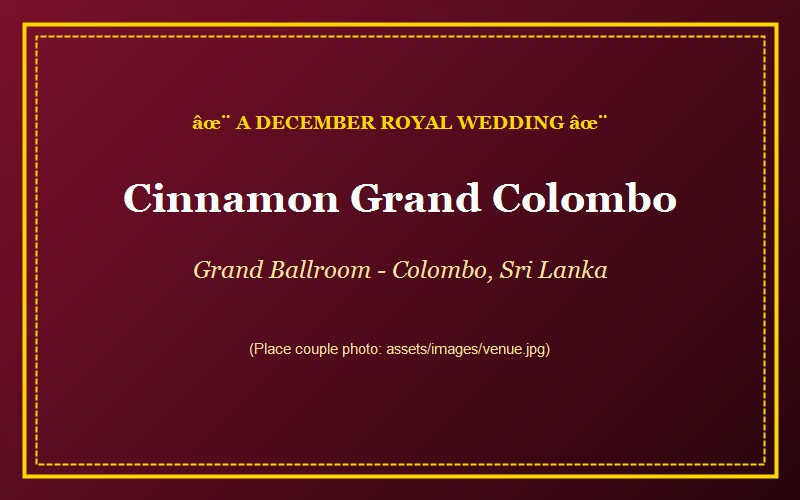
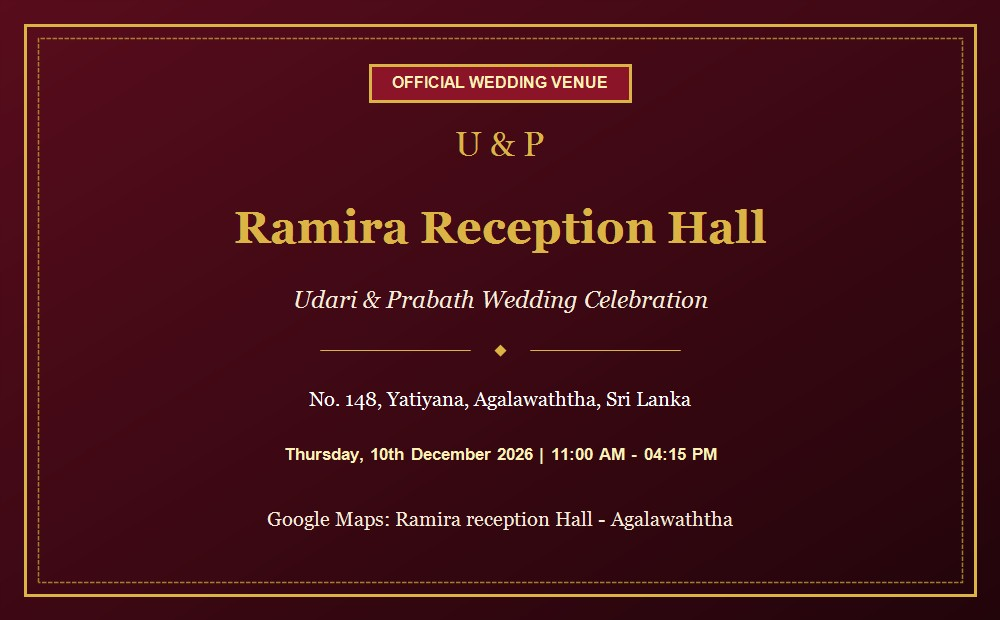
Replace Cinnamon Grand with Ramira Reception Hall, Agalawaththa and add live Google Maps embed

diff --git a/index.html b/index.html
@@ -442,16 +442,32 @@
         <div class="compact-venue-card">
           <div class="v-img-wrap">
             <img src="assets/images/venue.jpg" alt="Ramira Reception Hall, Agalawaththa" class="v-img" />
-            <span class="v-badge">📍 RECEPTION HALL</span>
+            <span class="v-badge">📍 RAMIRA RECEPTION HALL</span>
           </div>
           <div class="v-body">
             <h3 class="v-hotel">Ramira Reception Hall</h3>
             <p class="v-hall">Udari &amp; Prabath Wedding Celebration</p>
-            <p class="v-street">Agalawaththa, Sri Lanka</p>
+            <p class="v-street">📍 No. 148, Yatiyana, Agalawaththa, Sri Lanka</p>
 
-            <a href="https://maps.app.goo.gl/ub2awTQqFTStJXy36" target="_blank" rel="noopener noreferrer" class="btn btn-crimson-gold w-100">
-              <span>🗺</span> Open in Google Maps
-            </a>
+            <!-- Embedded Interactive Google Map for Ramira Reception Hall -->
+            <div class="venue-map-frame-box">
+              <iframe 
+                src="https://maps.google.com/maps?q=Ramira+reception+Hall+Agalawatta&t=&z=16&ie=UTF8&iwloc=&output=embed" 
+                class="venue-map-iframe" 
+                title="Ramira Reception Hall Location Map" 
+                loading="lazy" 
+                allowfullscreen="">
+              </iframe>
+            </div>
+
+            <div class="venue-action-buttons">
+              <a href="https://maps.app.goo.gl/ub2awTQqFTStJXy36" target="_blank" rel="noopener noreferrer" class="btn btn-crimson-gold w-100">
+                <span>🗺</span> Open in Google Maps
+              </a>
+              <a href="https://www.google.com/maps/dir/?api=1&destination=Ramira+reception+Hall+Agalawatta" target="_blank" rel="noopener noreferrer" class="btn btn-outline-gold w-100">
+                <span>🚗</span> Get Driving Directions
+              </a>
+            </div>
           </div>
         </div>
       </section>

diff --git a/style.css b/style.css
@@ -1967,9 +1967,34 @@ button {
 }
 
 .v-street {
-  font-size: 0.92rem;
+  font-size: 0.95rem;
   color: var(--text-muted);
-  margin-bottom: 18px;
+  margin-bottom: 14px;
+}
+
+/* Embedded Interactive Google Map for Ramira Reception Hall */
+.venue-map-frame-box {
+  width: 100%;
+  height: 220px;
+  border-radius: 14px;
+  overflow: hidden;
+  margin: 12px 0 18px;
+  border: 1.5px solid rgba(212, 175, 55, 0.4);
+  box-shadow: 0 4px 18px rgba(0, 0, 0, 0.08);
+  background: #f4efe6;
+}
+
+.venue-map-iframe {
+  width: 100%;
+  height: 100%;
+  border: none;
+  display: block;
+}
+
+.venue-action-buttons {
+  display: flex;
+  flex-direction: column;
+  gap: 10px;
 }
 
 /* ==========================================================================

diff --git a/script.js b/script.js
@@ -16,7 +16,7 @@ const WEDDING_CONFIG = {
   eventTitle: "Udari & Prabath Wedding",
   eventDescription: "Wedding Celebration of Udari & Prabath at Ramira Reception Hall, Agalawaththa (11:00 AM – 04:15 PM).",
   venueName: "Ramira Reception Hall",
-  venueAddress: "Agalawaththa, Sri Lanka",
+  venueAddress: "No. 148, Yatiyana, Agalawaththa, Sri Lanka",
   venueMapsURL: "https://maps.app.goo.gl/ub2awTQqFTStJXy36",
   
   // WhatsApp RSVP Phone Number

diff --git a/README.md b/README.md
@@ -40,19 +40,19 @@ Open `script.js` and edit the top configuration block:
 const WEDDING_CONFIG = {
   brideName: "Udari",
   groomName: "Prabath",
-  weddingDateISO: "2026-12-12T08:30:00+05:30", // Change to exact wedding date and time
-  eventTitle: "Wedding of Udari & Prabath",
-  eventDescription: "Poruwa Ceremony & Wedding Reception of Udari & Prabath",
-  venueName: "Cinnamon Grand Colombo (Grand Ballroom)",
-  venueAddress: "77 Galle Road, Colombo 00300, Sri Lanka",
-  venueMapsURL: "https://maps.google.com/?q=Cinnamon+Grand+Colombo",
+  weddingDateISO: "2026-12-10T11:00:00+05:30",
+  eventTitle: "Udari & Prabath Wedding Celebration",
+  eventDescription: "Udari & Prabath Wedding Celebration at Ramira Reception Hall, Agalawaththa",
+  venueName: "Ramira Reception Hall",
+  venueAddress: "No. 148, Yatiyana, Agalawaththa, Sri Lanka",
+  venueMapsURL: "https://maps.app.goo.gl/ub2awTQqFTStJXy36",
   
   // Set the WhatsApp phone number (with Sri Lanka country code 94, without + or 0)
-  rsvpWhatsAppNumber: "94771234567",
+  rsvpWhatsAppNumber: "94772921684",
   
   // Family contact numbers
-  contact1Phone: "+94 77 123 4567",
-  contact2Phone: "+94 71 987 6543"
+  contact1Phone: "+94 77 292 1684",
+  contact2Phone: "+94 70 155 1244"
 };
 ```
 
